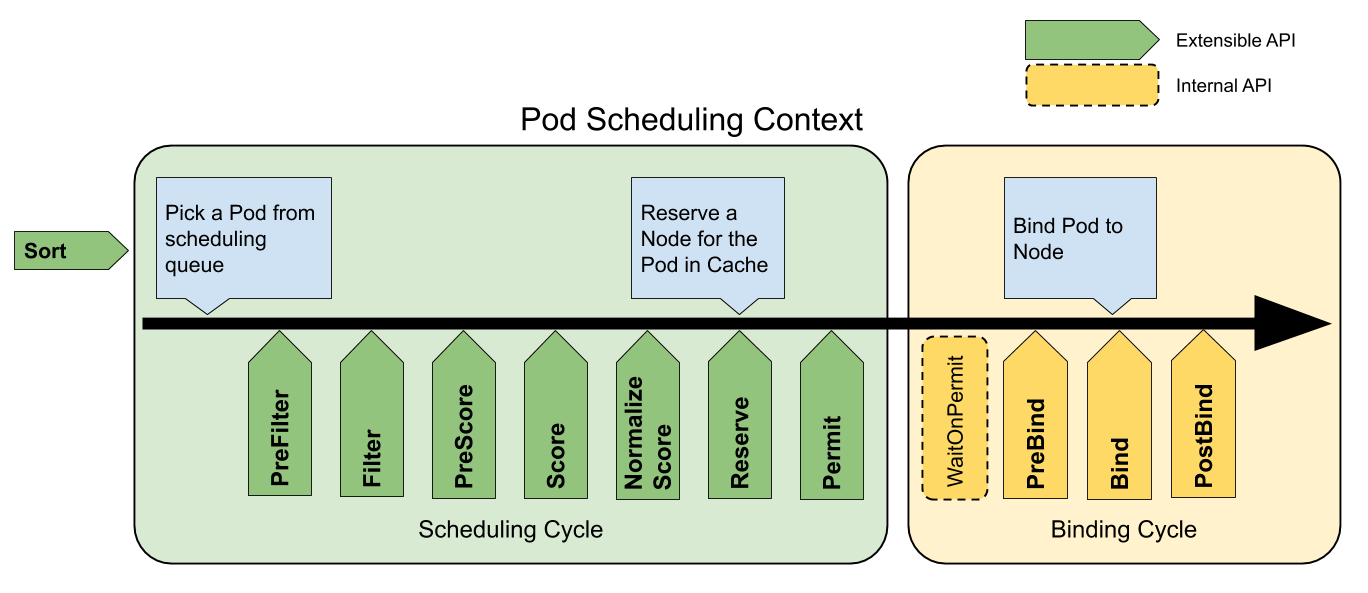
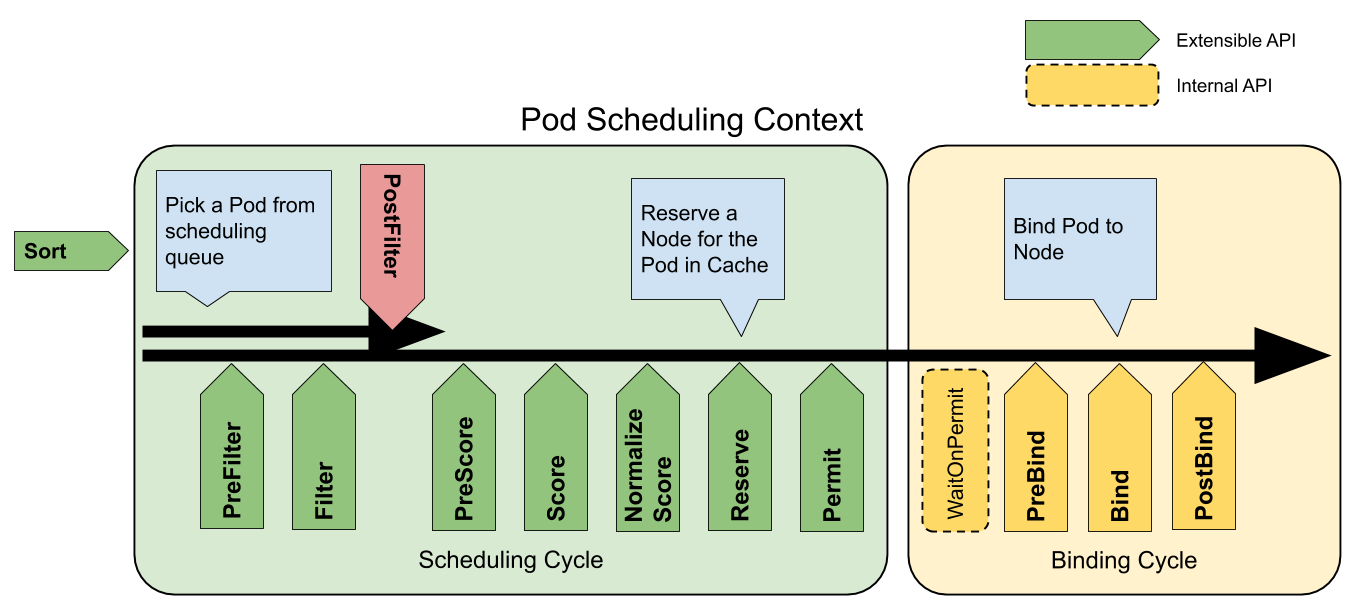
Document the changes of scheduler PostFilter extension point

diff --git a/content/en/docs/concepts/configuration/pod-priority-preemption.md b/content/en/docs/concepts/configuration/pod-priority-preemption.md
@@ -65,24 +65,20 @@ PriorityClasses have the option to set `preemptionPolicy: Never`.
 This will prevent pods of that PriorityClass from preempting other pods.
 {{< /note >}}
 
-Preemption is controlled by a kube-scheduler flag `disablePreemption`, which is
-set to `false` by default.
-If you want to disable preemption despite the above note, you can set
-`disablePreemption` to `true`.
-
-This option is available in component configs only and is not available in
-old-style command line options. Below is a sample component config to disable
-preemption:
+Starting from Kubernetes 1.19, Preemption is controlled by a kube-scheduler
+plugin: `DefaultPreemption`, which is enabled by default.
+If you want to disable preemption despite the above note, below is a sample
+component config:
 
 ```yaml
-apiVersion: kubescheduler.config.k8s.io/v1alpha1
+apiVersion: kubescheduler.config.k8s.io/v1beta1
 kind: KubeSchedulerConfiguration
-algorithmSource:
-  provider: DefaultProvider
-
-...
-
-disablePreemption: true
+profiles:
+  - schedulerName: default-scheduler
+    plugins:
+      postFilter:
+        disabled:
+        - name: DefaultPreemption
 ```
 
 ## PriorityClass

diff --git a/content/en/docs/reference/scheduling/config.md b/content/en/docs/reference/scheduling/config.md
@@ -158,6 +158,8 @@ extension points:
   Extension points: `QueueSort`.
 - `DefaultBinder`: Provides the default binding mechanism.
   Extension points: `Bind`.
+- `DefaultPreemption`: Provides the default preemption mechanism.
+  Extension points: `PostFilter`.
   
 You can also enable the following plugins, through the component config APIs,
 that are not enabled by default:
@@ -199,7 +201,7 @@ profiles:
   - schedulerName: default-scheduler
   - schedulerName: no-scoring-scheduler
     plugins:
-      prescore:
+      preScore:
         disabled:
         - name: '*'
       score:
@@ -245,6 +247,8 @@ beware of the following changes, if applicable:
 - `DefaultPodTopologySpread` [plugin](#scheduling-plugins) is renamed to `SelectorSpread`.
 - `Unreserve` extension point is removed from Profile definition. All `Reserve`
   plugins implement an `Unreserve` call.
+- `.disablePreemption` was removed. Users can disable preemption by disabling the
+  "DefaultPreemption" PostFilter plugin.
 
 ## {{% heading "whatsnext" %}}
 

diff --git a/content/en/docs/concepts/scheduling-eviction/scheduling-framework.md b/content/en/docs/concepts/scheduling-eviction/scheduling-framework.md
@@ -75,6 +75,14 @@ node, the scheduler will call filter plugins in their configured order. If any
 filter plugin marks the node as infeasible, the remaining plugins will not be
 called for that node. Nodes may be evaluated concurrently.
 
+### PostFilter {#post-filter}
+
+These plugins are called after Filter phase, but only when there is no feasible
+node. Each plugin is called by their configured order. If any postFilter plugin
+marks the node as `Schedulable`, the remaining plugins will not be called.
+A typical PostFilter implementation is preemption, which tries to make the pod
+schedulable by preempting other Pods.
+
 ### PreScore {#pre-score}
 
 These plugins are used to perform "pre-scoring" work, which generates a sharable
